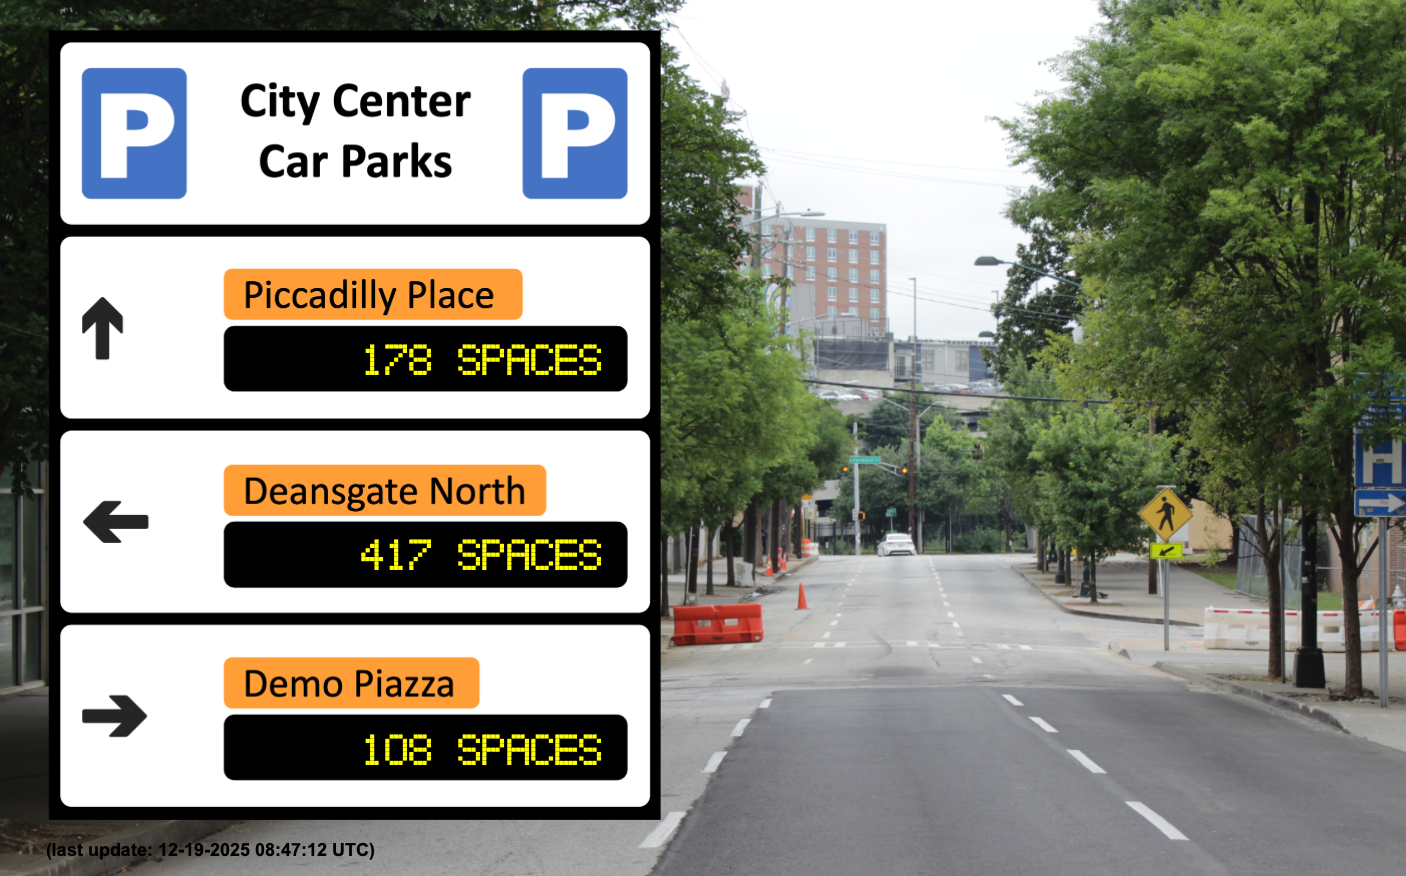
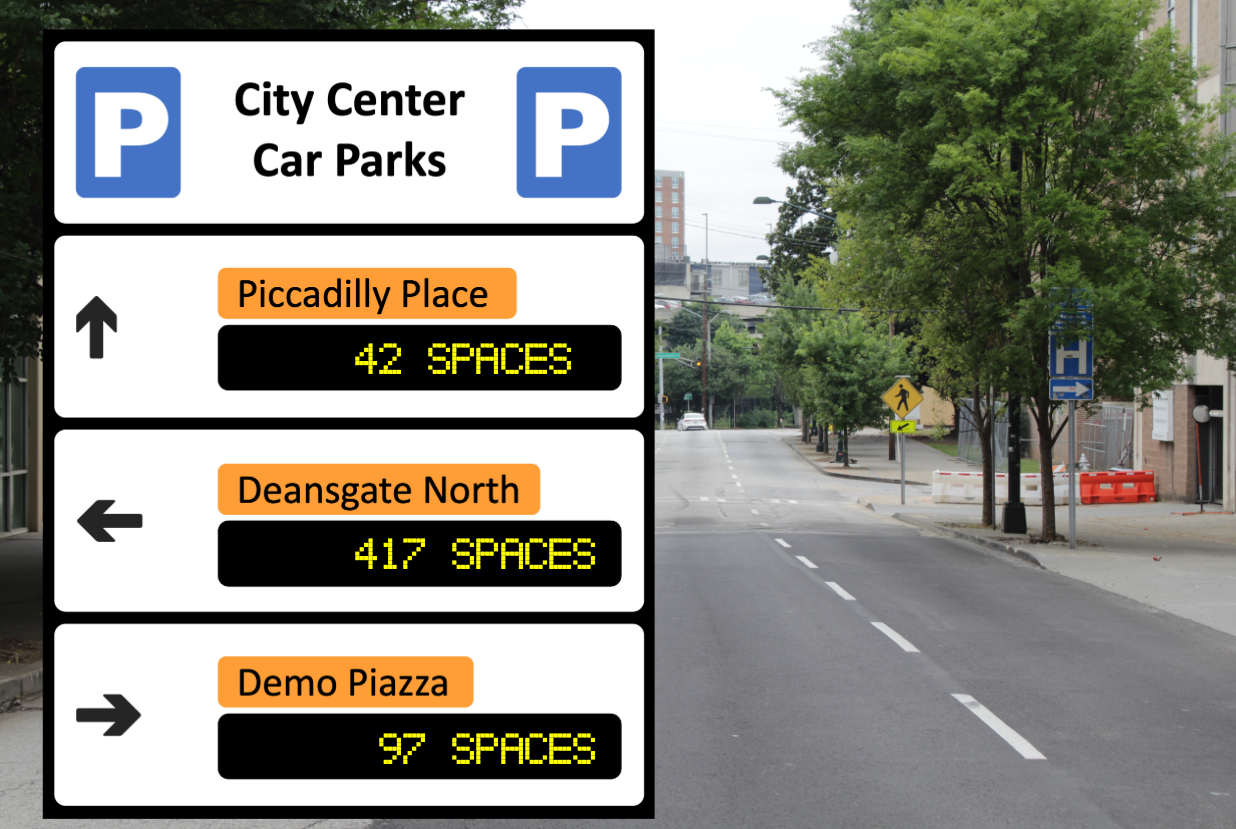
fix typos

diff --git a/examples/occupancy.md b/examples/occupancy.md
@@ -135,7 +135,7 @@ There is another city with many different car park operators. They all understan
 
 As a compromise solution, they agree upon less specific occupancy information to be provided that will still be good enough for drivers to make a decision.
 
-### Solution: occupanyLevel
+### Solution: occupancyLevel
 In the place hierarchy, APDS offers an element named `occupancyLevel` for this purpose. It holds a property `occupancyIndicator` which points to an entry of a user-defined code list.
 
 #### Excursus: user-defined code lists
